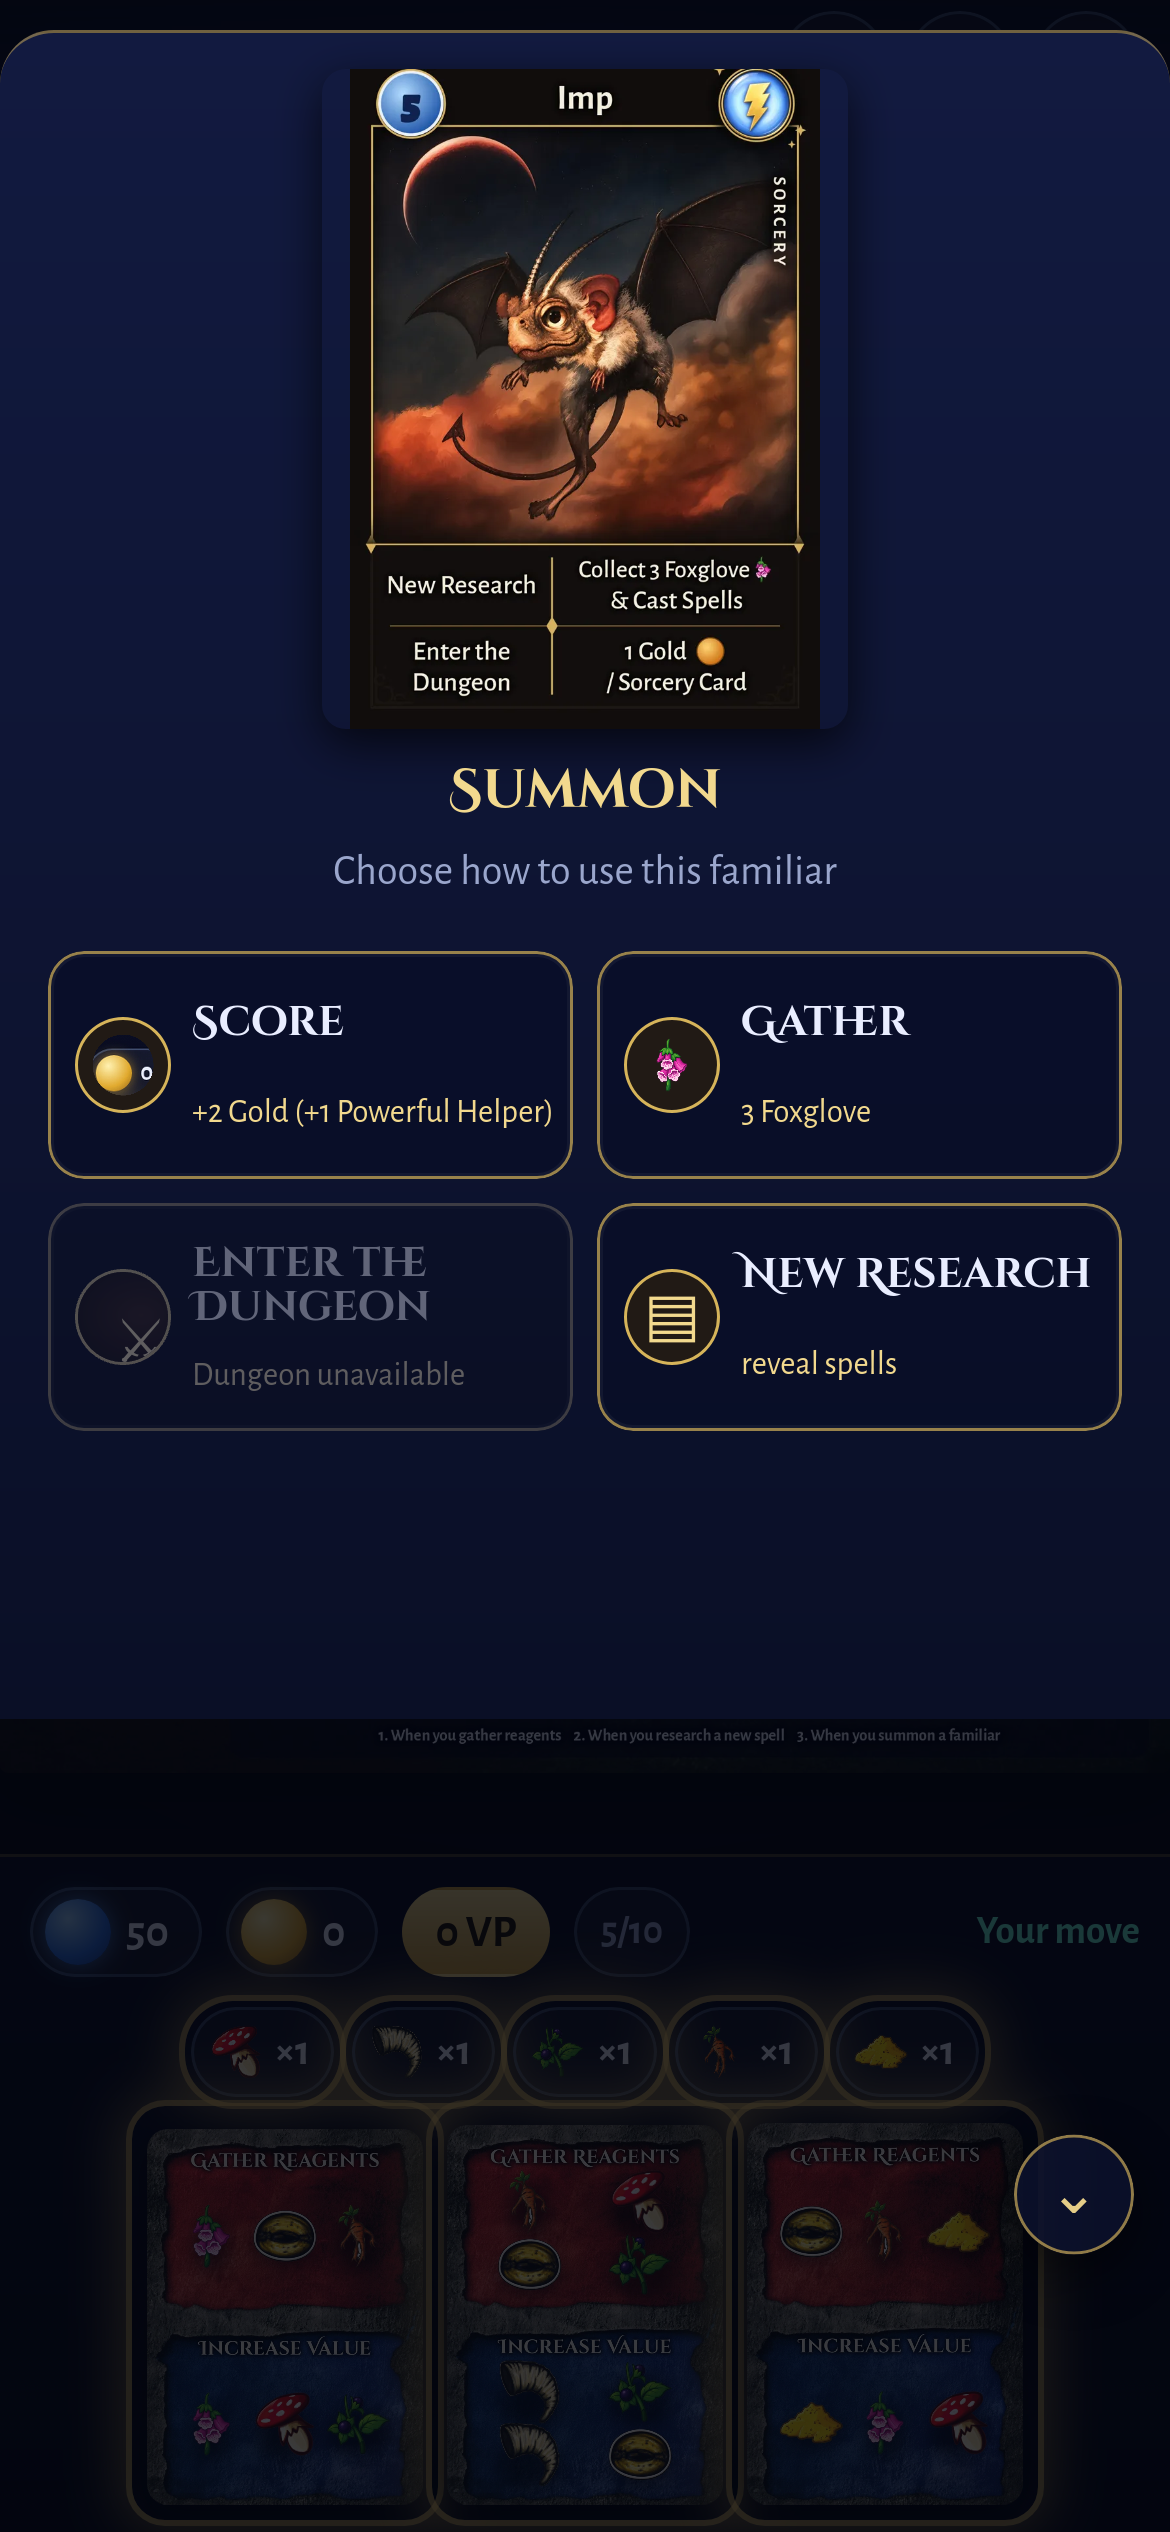
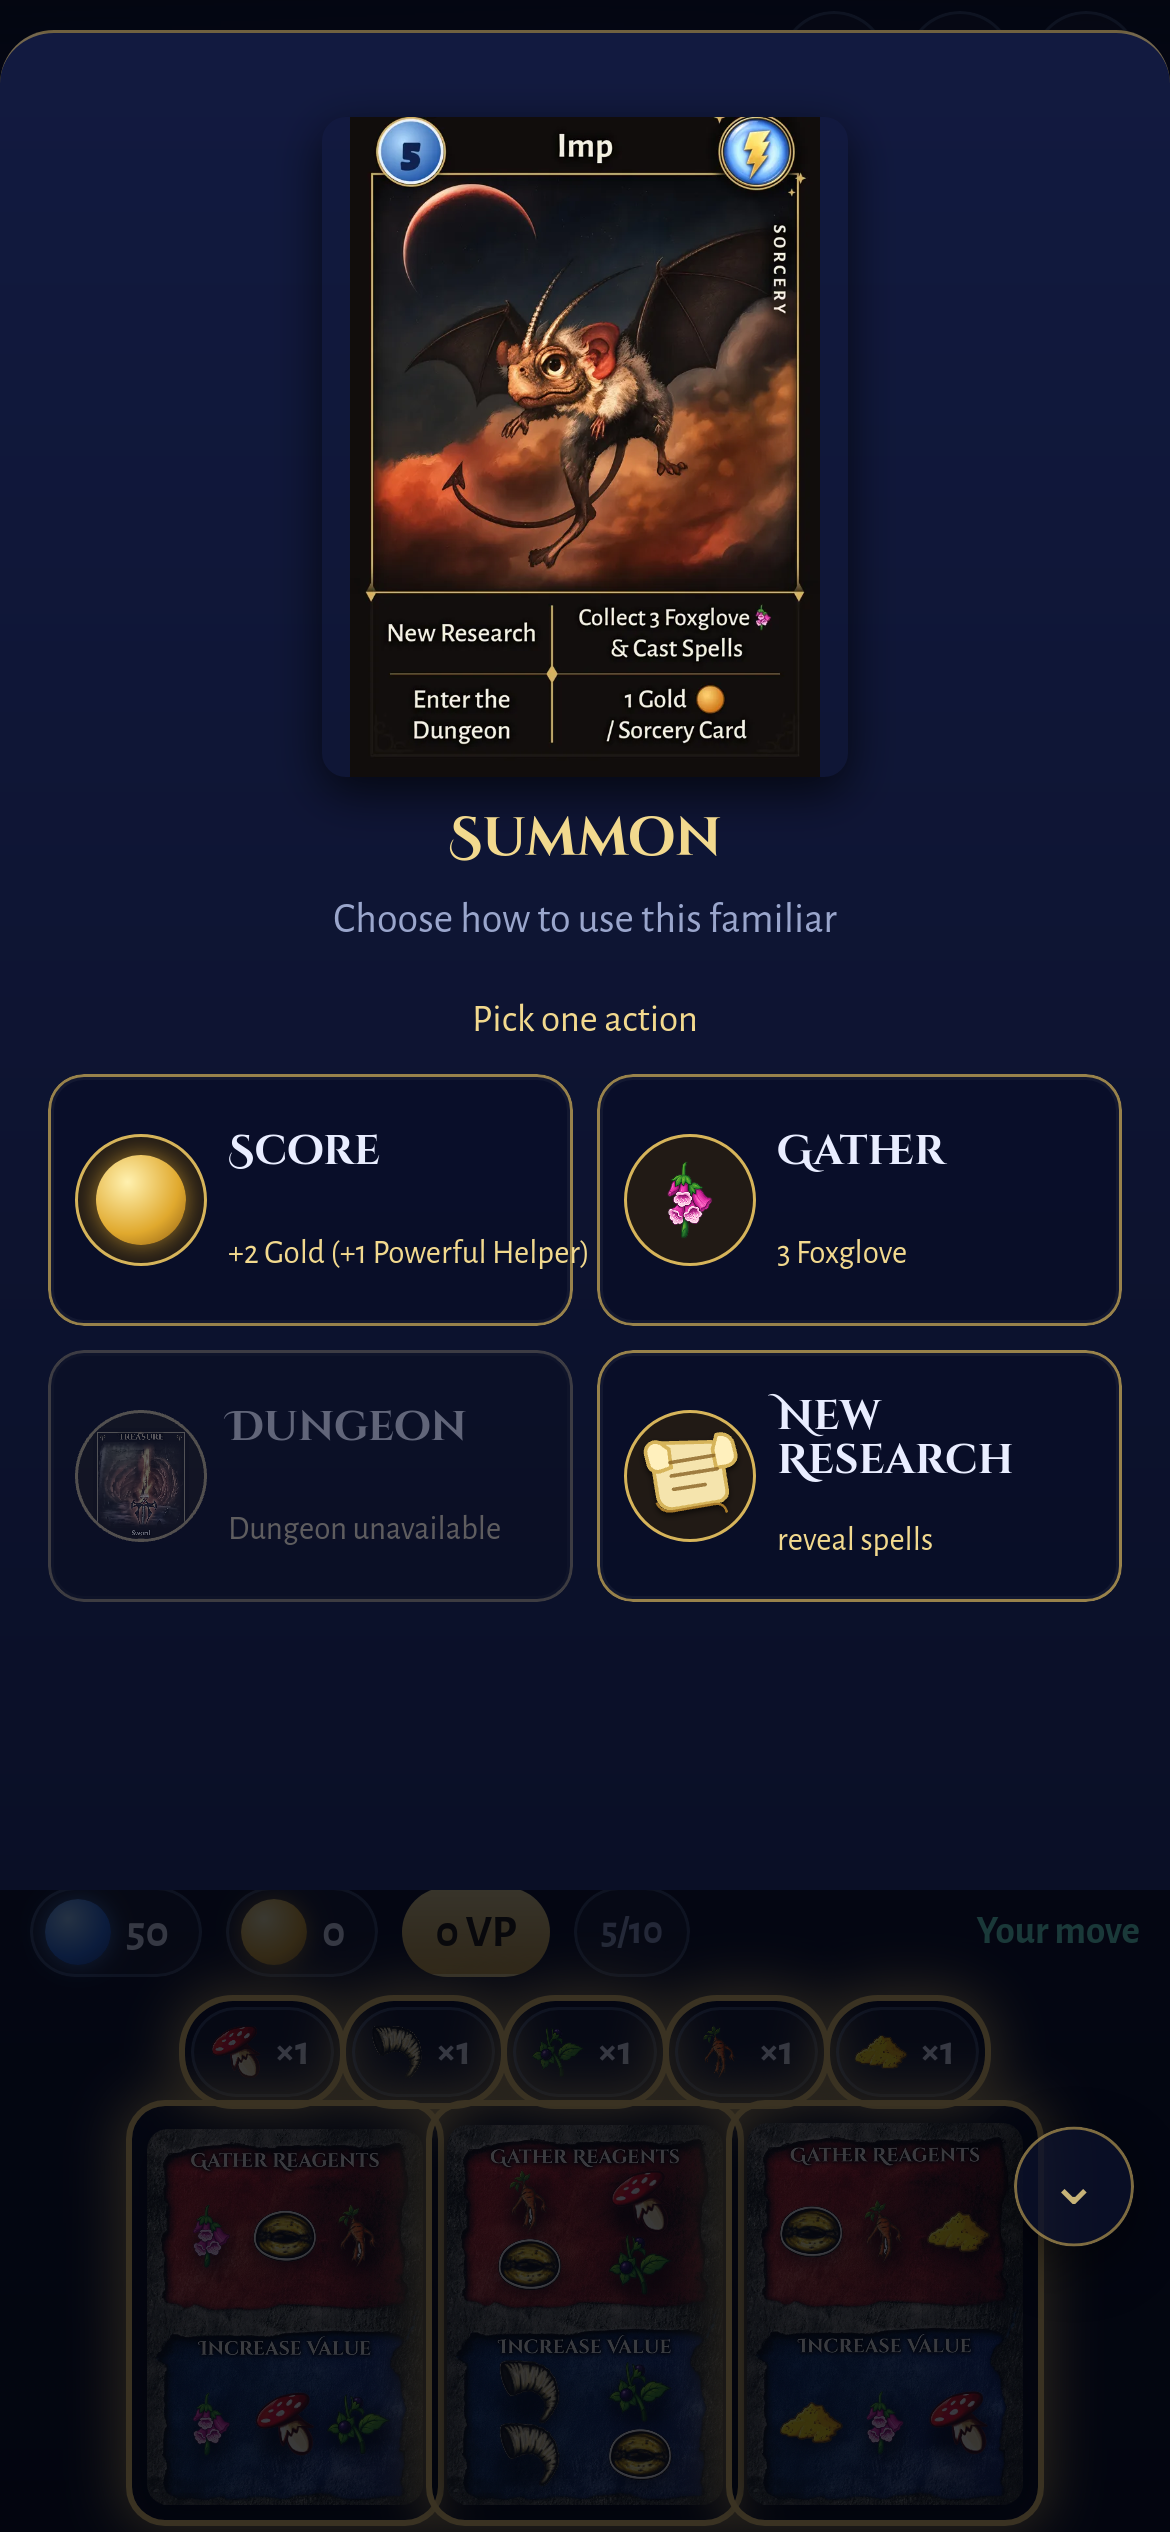
Polish shared familiar action chooser

Changed region(s): [[0.0308, 0.0, 0.9538, 0.624], [0.0, 0.6552, 1.0, 0.7488], [0.8615, 0.8424, 0.9846, 0.9048]]

diff --git a/app/css/app.css b/app/css/app.css
@@ -548,20 +548,26 @@ input[type=range].slider::-moz-range-thumb { width: 28px; height: 28px; border-r
   display: flex; flex-direction: column; gap: 12px; align-items: center; animation: sheetUp .28s cubic-bezier(.2, .9, .3, 1) both; }
 @keyframes sheetUp { from { transform: translateY(100%); } }
 .familiar-action-panel { width: min(100%, 520px); box-sizing: border-box; background: linear-gradient(180deg, #121a40, #0a0f26);
-  border-top: 1px solid rgba(214, 180, 90, .5); border-radius: 18px 18px 0 0; padding: 12px 16px calc(12px + var(--clear-b));
+  border-top: 1px solid rgba(214, 180, 90, .5); border-radius: 18px 18px 0 0; padding: 28px 16px calc(12px + var(--clear-b));
   display: flex; flex-direction: column; gap: 8px; align-items: center; animation: sheetUp .28s cubic-bezier(.2, .9, .3, 1) both; }
 .familiar-action-card { width: min(45vw, 180px); height: min(30vh, 220px); object-fit: contain; border-radius: 8px;
   box-shadow: 0 5px 16px rgba(0, 0, 0, .7); cursor: zoom-in; }
 .familiar-action-subtitle { margin-top: -2px; }
+.familiar-action-pick { color: var(--gold-hi); font-size: 13px; margin-top: 1px; }
 .familiar-action-grid { display: grid; grid-template-columns: repeat(2, minmax(0, 1fr)); gap: 8px; width: 100%; margin-top: 2px; }
-.familiar-action-tile { min-height: 76px; padding: 7px 8px; display: grid; grid-template-columns: 32px 1fr; grid-template-rows: auto auto;
+.familiar-action-tile { min-height: 84px; padding: 7px 8px; display: grid; grid-template-columns: 44px 1fr; grid-template-rows: auto auto;
   column-gap: 7px; align-items: center; text-align: left; border: 1px solid rgba(214, 180, 90, .7); border-radius: 12px;
   background: rgba(8, 13, 38, .78); color: var(--ink); box-shadow: inset 0 0 0 1px rgba(255, 255, 255, .04); }
 .familiar-action-tile:active { transform: scale(.98); background: rgba(90, 67, 18, .5); }
 .familiar-action-tile.disabled { opacity: .38; filter: grayscale(.5); }
-.familiar-action-icon { grid-row: 1 / span 2; width: 32px; height: 32px; display: grid; place-items: center; border: 1px solid var(--gold);
+.familiar-action-icon { grid-row: 1 / span 2; width: 44px; height: 44px; display: grid; place-items: center; border: 1px solid var(--gold);
   border-radius: 50%; background: #211a15; overflow: hidden; color: var(--gold-hi); font-size: 20px; }
-.familiar-action-icon img { width: 100%; height: 100%; padding: 4px; box-sizing: border-box; object-fit: contain; }
+.familiar-action-icon img { width: 100%; height: 100%; padding: 5px; box-sizing: border-box; object-fit: contain; }
+.familiar-action-gold-orb { width: 30px; height: 30px; border-radius: 50%;
+  background: radial-gradient(circle at 35% 30%, #fff1b0, #e0a92e 60%, #8a5a12);
+  box-shadow: 0 0 8px rgba(224, 169, 46, .65); }
+.familiar-action-scroll { width: 32px; height: 32px; display: grid; place-items: center; }
+.familiar-action-scroll svg { width: 100%; height: 100%; filter: drop-shadow(0 1px 1px rgba(0, 0, 0, .6)); }
 .familiar-action-glyph { line-height: 1; }
 .familiar-action-title { font-family: var(--display); font-size: 14px; font-weight: 700; line-height: 1.05; }
 .familiar-action-detail { color: var(--gold-hi); font-size: 11px; line-height: 1.1; white-space: nowrap; }

diff --git a/app/js/ui.js b/app/js/ui.js
@@ -1,7 +1,7 @@
 import { h, art, reagentIcon, schoolIcon, nice, REAGENTS, counts, avatar, tokenChip, costIcons, sleep, appendNodes, replaceChildren } from './dom.js';
 import { versionLabel } from './version.js';
 import * as Store from './store.js';
-import { achievementTile, achievementBadge, achievementTitle, achievementFromText } from './achievements.js';
+import { achievementTile, achievementBadge, achievementTitle, achievementFromText, SPELL_SCROLL_ICON } from './achievements.js';
 
 const DIFF_LABELS = { easy: 'Apprentice', normal: 'Adept', hard: 'Archmage' };
 
@@ -1063,9 +1063,10 @@ export async function newResearchChooser(g) {
 }
 
 function familiarActionIcon(use, reagent) {
-  if (use === 'score') return h('img', { src: 'art/icons/gold-token.webp', alt: '' });
+  if (use === 'score') return h('span', { class: 'familiar-action-gold-orb', 'aria-hidden': 'true' });
   if (use === 'gather') return h('img', { src: reagentIcon(reagent), alt: '' });
-  return h('span', { class: `familiar-action-glyph ${use}`, 'aria-hidden': 'true' }, use === 'dungeon' ? '⚔' : '▤');
+  if (use === 'dungeon') return h('img', { src: 'art/icons/familiar-action-dungeon.webp', alt: '' });
+  return h('span', { class: 'familiar-action-scroll', html: SPELL_SCROLL_ICON, 'aria-hidden': 'true' });
 }
 
 function familiarActionChooser(g, {
@@ -1076,7 +1077,7 @@ function familiarActionChooser(g, {
   const uses = [
     { use: 'score', label: 'Score', detail: scoreDetail, reason: 'Scoring unavailable' },
     { use: 'gather', label: 'Gather', detail: gatherDetail, reason: 'Gathering unavailable' },
-    { use: 'dungeon', label: 'Enter the Dungeon', detail: 'draw until treasure', reason: 'Dungeon unavailable' },
+    { use: 'dungeon', label: 'Dungeon', detail: 'draw until treasure', reason: 'Dungeon unavailable' },
     { use: 'research', label: 'New Research', detail: 'reveal spells', reason: 'Research unavailable' },
   ];
   const actionGrid = h('div', { class: 'familiar-action-grid' });
@@ -1096,6 +1097,7 @@ function familiarActionChooser(g, {
     h('img', { class: 'familiar-action-card', src: art(familiar), alt: familiar, onclick: () => expandCard(g, familiar) }),
     h('div', { class: 'phase-title' }, title),
     h('div', { class: 'ov-sub familiar-action-subtitle' }, subtitle),
+    h('div', { class: 'familiar-action-pick' }, 'Pick one action'),
     actionGrid,
     cancel ? h('button', { class: 'linkish familiar-action-cancel', 'data-testid': `${testPrefix}-cancel`, onclick: () => ov.close() }, 'Cancel') : null));
   return ov;

diff --git a/app/js/achievements.js b/app/js/achievements.js
@@ -6,7 +6,7 @@ const SAMPLE_ART = {
   Familiars: 'art/icons/achievement-familiar.webp',
 };
 
-const SPELL_SCROLL_ICON = `<svg viewBox="12 19 79 70" aria-hidden="true" focusable="false">
+export const SPELL_SCROLL_ICON = `<svg viewBox="12 19 79 70" aria-hidden="true" focusable="false">
   <path d="M27 27c-5 2-8 7-7 13l5 31c1 7 7 11 14 10l36-6c5-1 8-5 7-10l-5-31c-1-6-6-9-12-8z" fill="#f5e4ad" stroke="#d6b45a" stroke-width="3"/>
   <path d="M27 27c-7-3-13 2-12 9l2 8c1 5 6 8 11 6l8-3-2-15z" fill="#fff0bd" stroke="#d6b45a" stroke-width="3"/>
   <path d="M73 20c7-2 13 2 14 8l2 8c1 5-3 9-8 10l-8 1-3-15z" fill="#fff0bd" stroke="#d6b45a" stroke-width="3"/>
